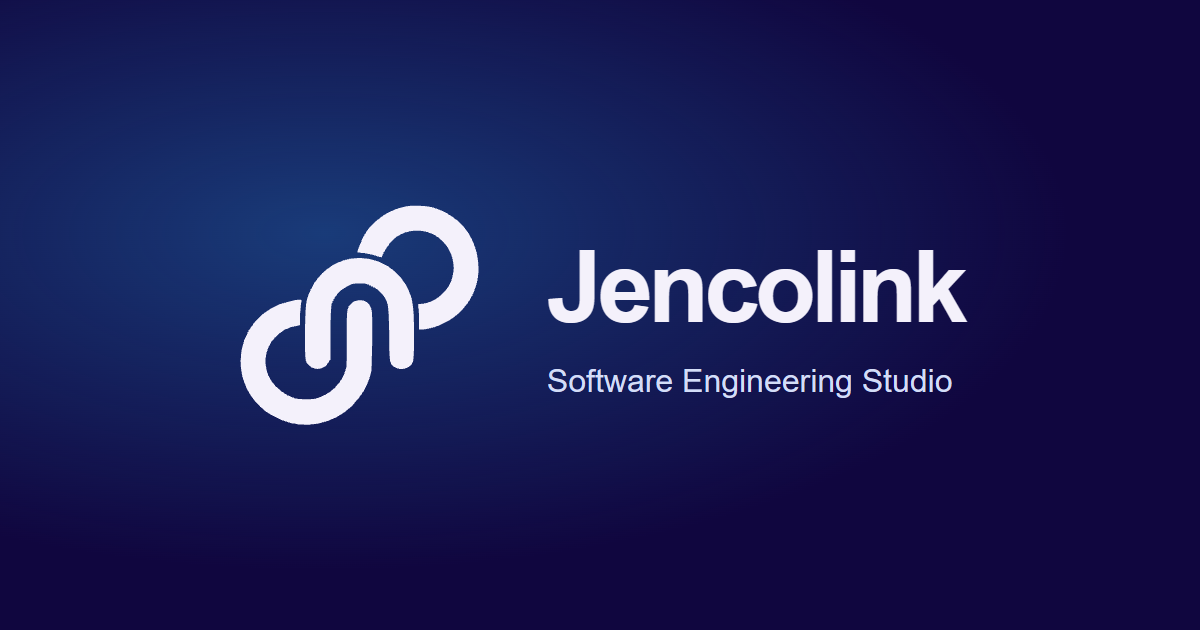
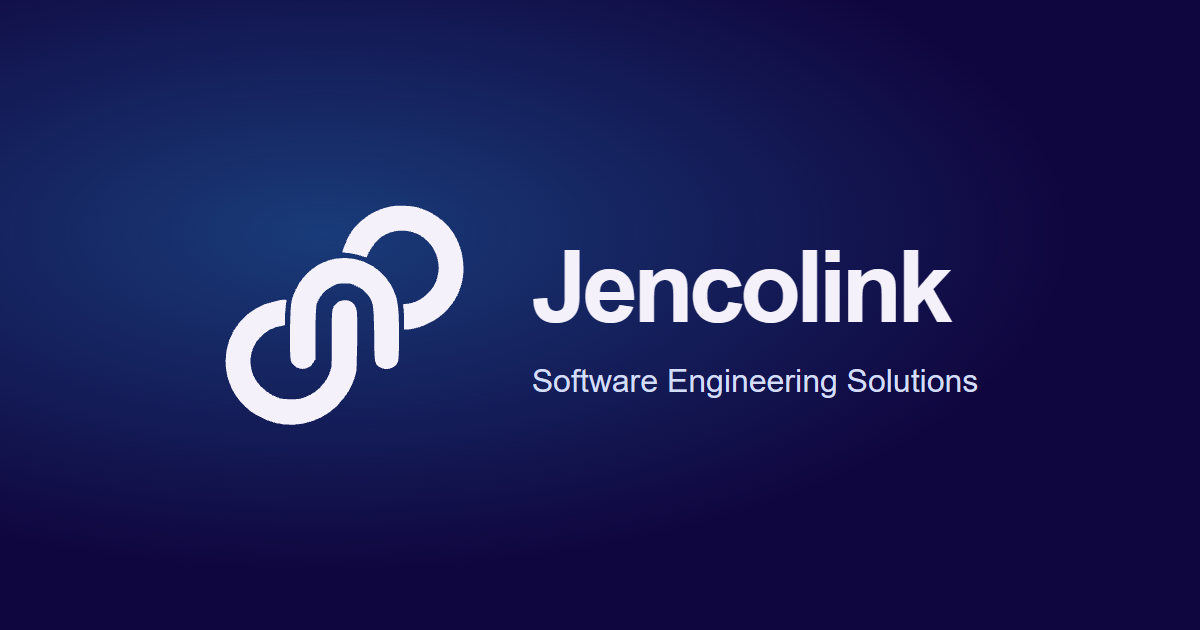
Update Jencolink search and social preview title

Changed region(s): [[0.185, 0.3317, 0.4008, 0.6937], [0.4317, 0.3921, 0.8017, 0.5127], [0.4317, 0.573, 0.8325, 0.6333]]

diff --git a/Website/src/index.html b/Website/src/index.html
@@ -2,20 +2,20 @@
 <html lang="en">
   <head>
     <meta charset="utf-8" />
-    <title>Jencolink | Custom Web Apps, Cloud &amp; Automation</title>
+    <title>Jencolink — Software Engineering Solutions</title>
     <base href="/" />
     <meta name="viewport" content="width=device-width, initial-scale=1" />
     <meta
       name="description"
-      content="Jencolink is a software engineering studio building custom web apps, business management systems, e-commerce, cloud solutions, and workflow automation."
+      content="Jencolink designs and builds custom web apps, business management systems, e-commerce platforms, cloud solutions, and workflow automation."
     />
     <link rel="canonical" href="https://jencolink.com/" />
     <meta name="theme-color" media="(prefers-color-scheme: dark)" content="#10063F" />
     <meta name="theme-color" media="(prefers-color-scheme: light)" content="#f3f4fa" />
-    <meta property="og:title" content="Jencolink | Custom Web Apps, Cloud &amp; Automation" />
+    <meta property="og:title" content="Jencolink — Software Engineering Solutions" />
     <meta
       property="og:description"
-      content="Jencolink is a software engineering studio building custom web apps, business management systems, e-commerce, cloud solutions, and workflow automation."
+      content="Jencolink designs and builds custom web apps, business management systems, e-commerce platforms, cloud solutions, and workflow automation."
     />
     <meta property="og:type" content="website" />
     <meta property="og:url" content="https://jencolink.com/" />
@@ -23,8 +23,9 @@
     <meta property="og:image" content="https://jencolink.com/social-preview.png" />
     <meta property="og:image:width" content="1200" />
     <meta property="og:image:height" content="630" />
-    <meta property="og:image:alt" content="Jencolink — Software Engineering Studio" />
+    <meta property="og:image:alt" content="Jencolink — Software Engineering Solutions" />
     <meta name="twitter:card" content="summary_large_image" />
+    <meta name="twitter:title" content="Jencolink — Software Engineering Solutions" />
     <link rel="icon" type="image/svg+xml" href="favicon.svg" />
     <script type="application/ld+json">
       {
